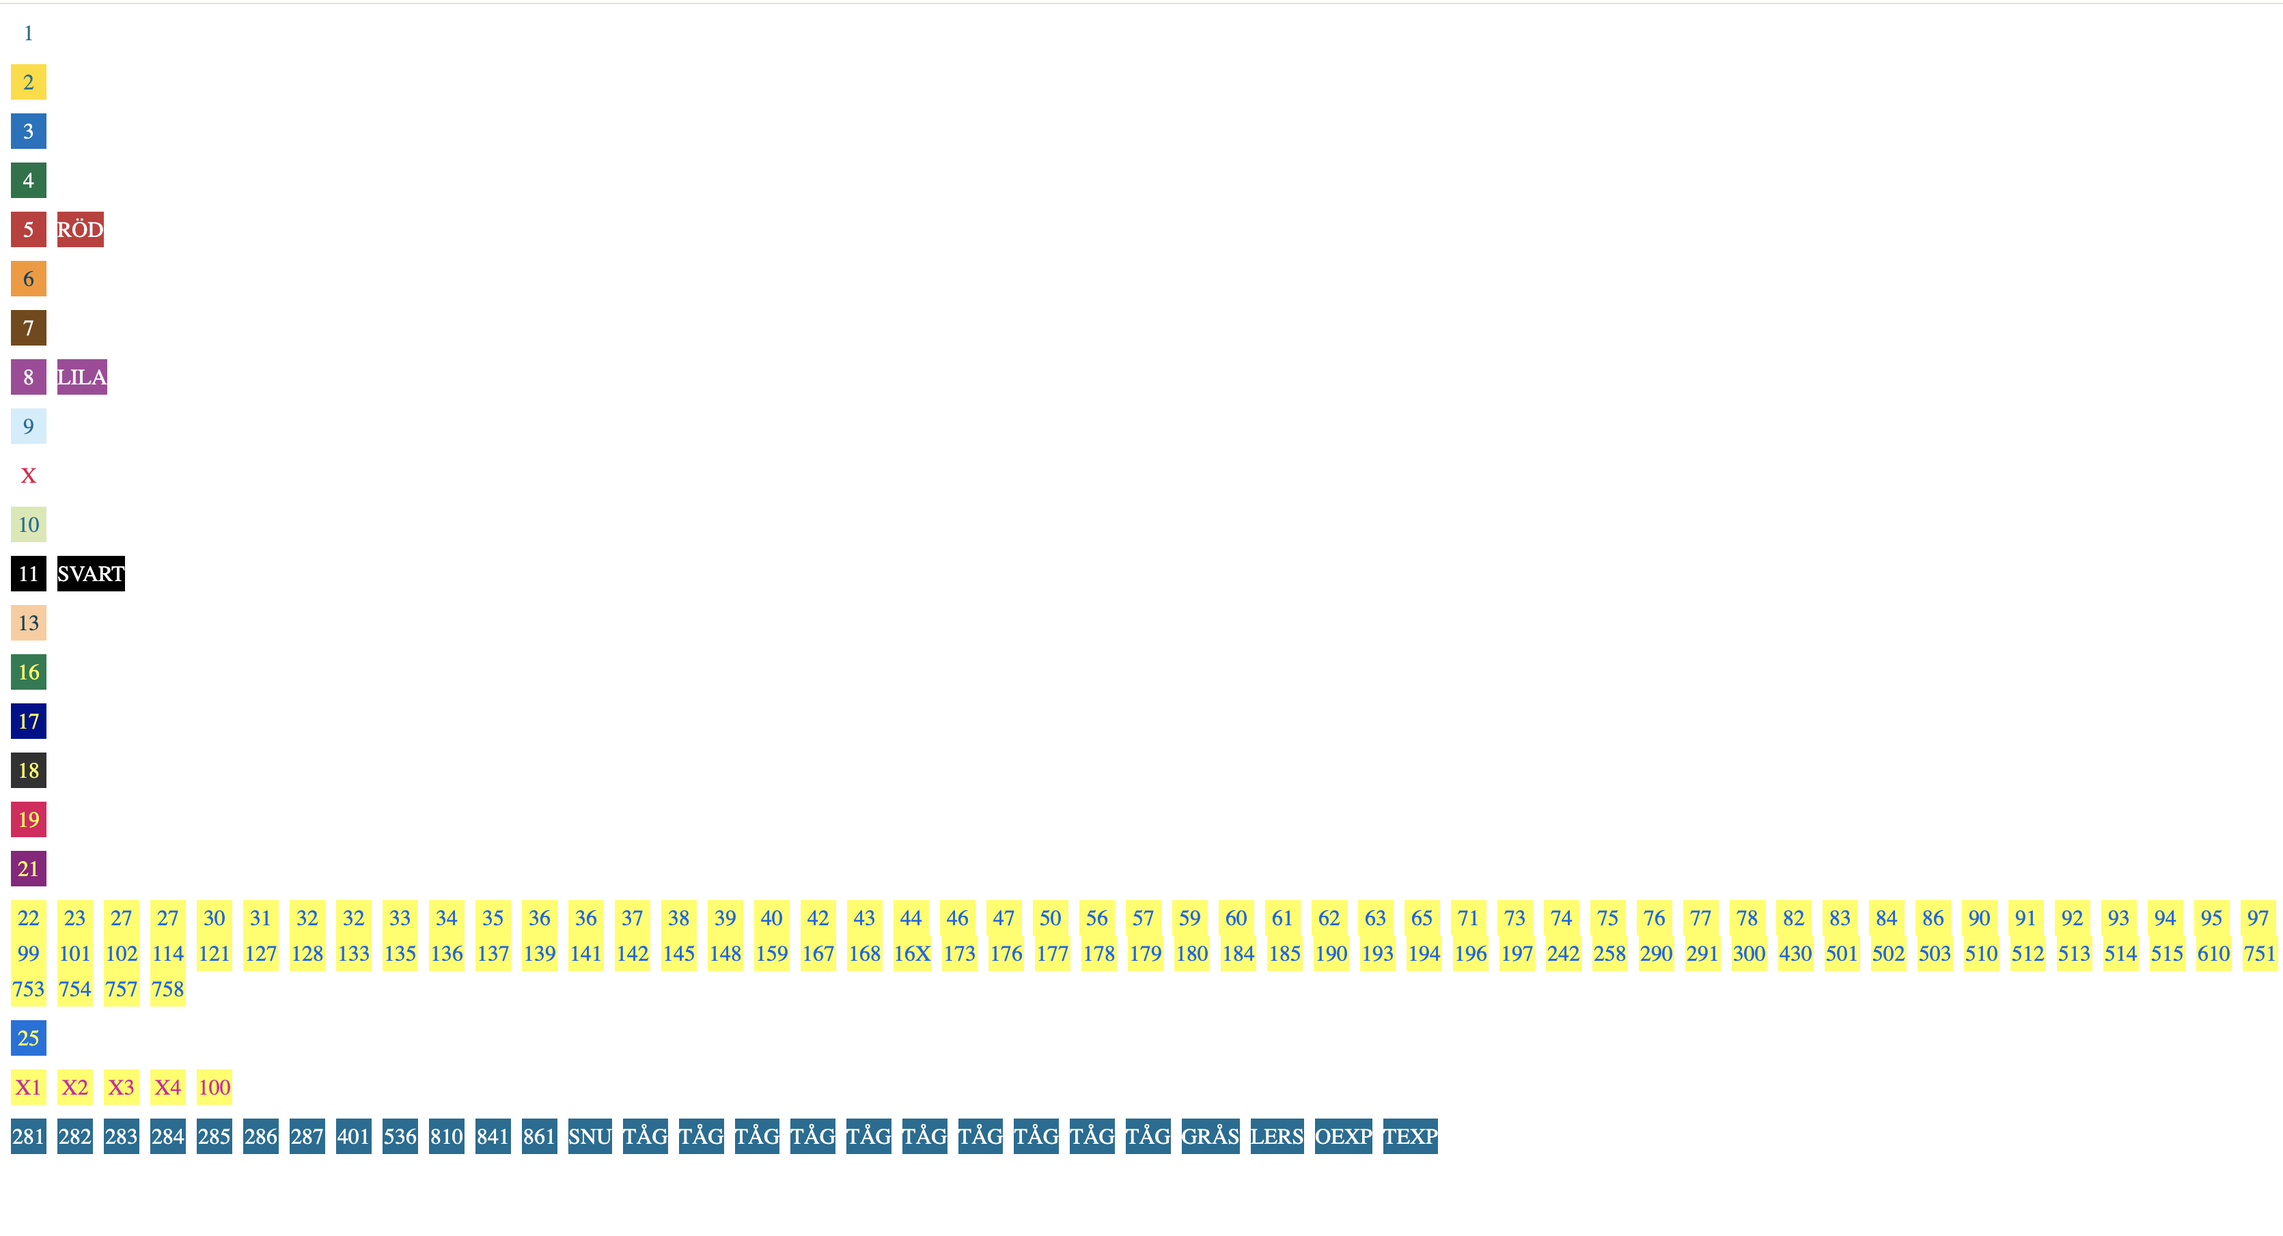
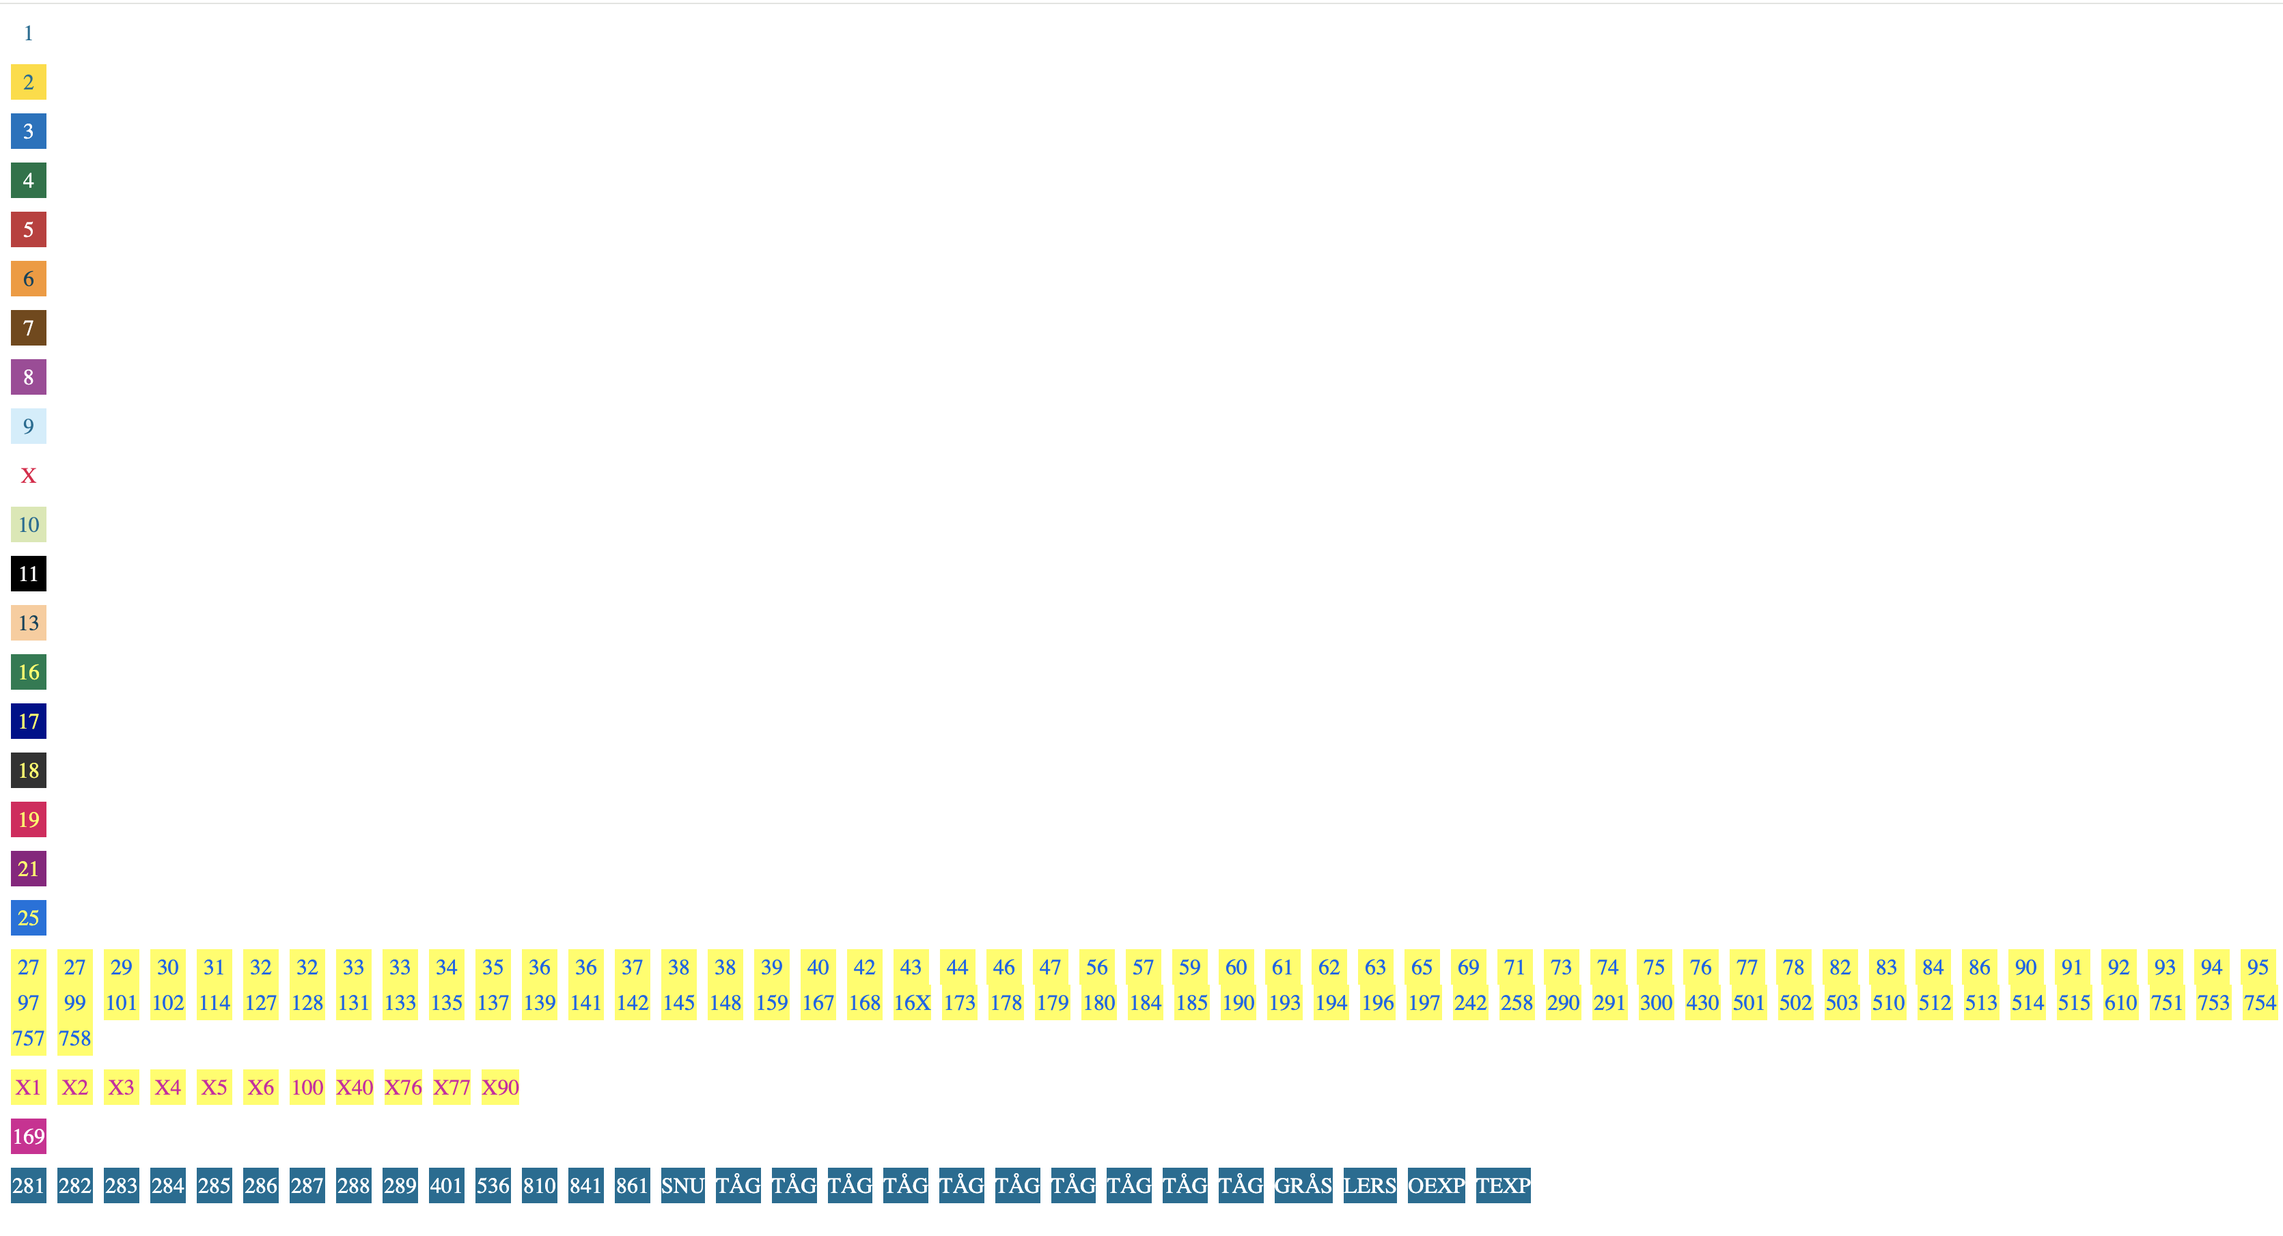
Update styles

diff --git a/dist/lines-goteborg.css b/dist/lines-goteborg.css
@@ -8,17 +8,17 @@
 	color: rgb(0, 108, 147);
 	background-color: rgb(216, 232, 176);
 }
-.line-100, .line-X1, .line-X2, .line-X3, .line-X4 {
+.line-100, .line-X1, .line-X2, .line-X3, .line-X4, .line-X40, .line-X5, .line-X6, .line-X76, .line-X77, .line-X90 {
 	border-color: rgb(212, 0, 162);
 	color: rgb(212, 0, 162);
 	background-color: rgb(255, 255, 80);
 }
-.line-101, .line-102, .line-114, .line-121, .line-127, .line-128, .line-133, .line-135, .line-136, .line-137, .line-139, .line-141, .line-142, .line-145, .line-148, .line-159, .line-167, .line-168, .line-16X, .line-173, .line-176, .line-177, .line-178, .line-179, .line-180, .line-184, .line-185, .line-190, .line-193, .line-194, .line-196, .line-197, .line-22, .line-23, .line-242, .line-258, .line-27, .line-290, .line-291, .line-30, .line-300, .line-31, .line-32, .line-33, .line-34, .line-35, .line-36, .line-37, .line-38, .line-39, .line-40, .line-42, .line-43, .line-430, .line-44, .line-46, .line-47, .line-50, .line-501, .line-502, .line-503, .line-510, .line-512, .line-513, .line-514, .line-515, .line-56, .line-57, .line-59, .line-60, .line-61, .line-610, .line-62, .line-63, .line-65, .line-71, .line-73, .line-74, .line-75, .line-751, .line-753, .line-754, .line-757, .line-758, .line-76, .line-77, .line-78, .line-82, .line-83, .line-84, .line-86, .line-90, .line-91, .line-92, .line-93, .line-94, .line-95, .line-97, .line-99 {
+.line-101, .line-102, .line-114, .line-127, .line-128, .line-131, .line-133, .line-135, .line-137, .line-139, .line-141, .line-142, .line-145, .line-148, .line-159, .line-167, .line-168, .line-16X, .line-173, .line-178, .line-179, .line-180, .line-184, .line-185, .line-190, .line-193, .line-194, .line-196, .line-197, .line-242, .line-258, .line-27, .line-29, .line-290, .line-291, .line-30, .line-300, .line-31, .line-32, .line-33, .line-34, .line-35, .line-36, .line-37, .line-38, .line-39, .line-40, .line-42, .line-43, .line-430, .line-44, .line-46, .line-47, .line-501, .line-502, .line-503, .line-510, .line-512, .line-513, .line-514, .line-515, .line-56, .line-57, .line-59, .line-60, .line-61, .line-610, .line-62, .line-63, .line-65, .line-69, .line-71, .line-73, .line-74, .line-75, .line-751, .line-753, .line-754, .line-757, .line-758, .line-76, .line-77, .line-78, .line-82, .line-83, .line-84, .line-86, .line-90, .line-91, .line-92, .line-93, .line-94, .line-95, .line-97, .line-99 {
 	border-color: rgb(255, 255, 80);
 	color: rgb(0, 97, 235);
 	background-color: rgb(255, 255, 80);
 }
-.line-11, .line-SVART {
+.line-11 {
 	border-color: rgb(0, 0, 0);
 	color: rgb(255, 255, 255);
 	background-color: rgb(0, 0, 0);
@@ -32,6 +32,11 @@
 	border-color: rgb(0, 124, 79);
 	color: rgb(255, 255, 80);
 	background-color: rgb(0, 124, 79);
+}
+.line-169 {
+	border-color: rgb(215, 15, 148);
+	color: rgb(255, 255, 255);
+	background-color: rgb(215, 15, 148);
 }
 .line-17 {
 	border-color: rgb(0, 0, 142);
@@ -63,7 +68,7 @@
 	color: rgb(255, 255, 80);
 	background-color: rgb(0, 111, 222);
 }
-.line-281, .line-282, .line-283, .line-284, .line-285, .line-286, .line-287, .line-401, .line-536, .line-810, .line-841, .line-861, .line-GRÅS, .line-LERS, .line-OEXP, .line-SNU, .line-TEXP, .line-TÅG {
+.line-281, .line-282, .line-283, .line-284, .line-285, .line-286, .line-287, .line-288, .line-289, .line-401, .line-536, .line-810, .line-841, .line-861, .line-GRÅS, .line-LERS, .line-OEXP, .line-SNU, .line-TEXP, .line-TÅG {
 	border-color: rgb(0, 108, 147);
 	color: rgb(255, 255, 255);
 	background-color: rgb(0, 108, 147);
@@ -78,7 +83,7 @@
 	color: rgb(255, 255, 255);
 	background-color: rgb(2, 116, 70);
 }
-.line-5, .line-RÖD {
+.line-5 {
 	border-color: rgb(198, 53, 57);
 	color: rgb(255, 255, 255);
 	background-color: rgb(198, 53, 57);
@@ -93,7 +98,7 @@
 	color: rgb(255, 255, 255);
 	background-color: rgb(118, 71, 18);
 }
-.line-8, .line-LILA {
+.line-8 {
 	border-color: rgb(255, 255, 255);
 	color: rgb(255, 255, 255);
 	background-color: rgb(165, 68, 154);

diff --git a/dist/lines-skovde.css b/dist/lines-skovde.css
@@ -1,50 +1,10 @@
-.line-1 {
-	border-color: rgb(198, 53, 57);
-	color: rgb(255, 255, 255);
-	background-color: rgb(198, 53, 57);
+.line-1, .line-11, .line-14, .line-2, .line-200, .line-212, .line-300, .line-303, .line-4, .line-400, .line-401, .line-402, .line-5, .line-500, .line-501, .line-505, .line-510, .line-6, .line-600, .line-610, .line-613, .line-619, .line-620, .line-8, .line-9 {
+	border-color: rgb(255, 255, 80);
+	color: rgb(0, 97, 235);
+	background-color: rgb(255, 255, 80);
 }
-.line-1, .line-200, .line-212, .line-300, .line-303, .line-310, .line-400, .line-401, .line-402, .line-500, .line-500X, .line-505, .line-510, .line-610, .line-611, .line-613, .line-615, .line-616, .line-618, .line-619, .line-620, .line-8, .line-9, .line-TÅG {
+.line-200, .line-212, .line-300, .line-510, .line-611, .line-615, .line-616, .line-618, .line-620, .line-TÅG {
 	border-color: rgb(0, 108, 147);
 	color: rgb(255, 255, 255);
 	background-color: rgb(0, 108, 147);
-}
-.line-10 {
-	border-color: rgb(194, 205, 197);
-	color: rgb(0, 67, 92);
-	background-color: rgb(194, 205, 197);
-}
-.line-12 {
-	border-color: rgb(118, 71, 18);
-	color: rgb(255, 255, 255);
-	background-color: rgb(118, 71, 18);
-}
-.line-13 {
-	border-color: rgb(248, 152, 40);
-	color: rgb(0, 67, 92);
-	background-color: rgb(248, 152, 40);
-}
-.line-2 {
-	border-color: rgb(0, 0, 0);
-	color: rgb(255, 255, 255);
-	background-color: rgb(0, 0, 0);
-}
-.line-3 {
-	border-color: rgb(2, 116, 70);
-	color: rgb(255, 255, 255);
-	background-color: rgb(2, 116, 70);
-}
-.line-4 {
-	border-color: rgb(0, 113, 193);
-	color: rgb(255, 255, 255);
-	background-color: rgb(0, 113, 193);
-}
-.line-6 {
-	border-color: rgb(216, 232, 176);
-	color: rgb(0, 108, 147);
-	background-color: rgb(216, 232, 176);
-}
-.line-7 {
-	border-color: rgb(253, 204, 153);
-	color: rgb(0, 67, 92);
-	background-color: rgb(253, 204, 153);
 }

diff --git a/dist/lines-uddevalla.css b/dist/lines-uddevalla.css
@@ -3,11 +3,6 @@
 	color: rgb(255, 255, 255);
 	background-color: rgb(198, 53, 57);
 }
-.line-12, .line-14, .line-19, .line-670, .line-673, .line-679, .line-680, .line-681, .line-730, .line-737, .line-738, .line-810, .line-821, .line-822, .line-826, .line-830, .line-833, .line-836, .line-840, .line-841, .line-845, .line-850, .line-860, .line-861, .line-870, .line-871, .line-OEXP, .line-TÅG {
-	border-color: rgb(0, 108, 147);
-	color: rgb(255, 255, 255);
-	background-color: rgb(0, 108, 147);
-}
 .line-2 {
 	border-color: rgb(0, 113, 193);
 	color: rgb(255, 255, 255);
@@ -18,23 +13,23 @@
 	color: rgb(0, 108, 147);
 	background-color: rgb(208, 237, 251);
 }
-.line-331, .line-332, .line-841X, .line-931 {
+.line-331, .line-332, .line-673, .line-737, .line-738, .line-739, .line-821, .line-822, .line-824, .line-826, .line-833, .line-931 {
 	border-color: rgb(255, 255, 80);
 	color: rgb(0, 97, 235);
 	background-color: rgb(255, 255, 80);
 }
 .line-4 {
-	border-color: rgb(2, 116, 70);
+	border-color: rgb(255, 255, 255);
 	color: rgb(255, 255, 255);
-	background-color: rgb(2, 116, 70);
+	background-color: rgb(165, 68, 154);
 }
 .line-5 {
 	border-color: rgb(255, 221, 0);
 	color: rgb(0, 108, 147);
 	background-color: rgb(255, 221, 0);
 }
-.line-6 {
-	border-color: rgb(255, 255, 255);
+.line-670, .line-679, .line-680, .line-681, .line-730, .line-810, .line-830, .line-836, .line-840, .line-841, .line-845, .line-850, .line-860, .line-861, .line-870, .line-871, .line-OEXP, .line-TÅG {
+	border-color: rgb(0, 108, 147);
 	color: rgb(255, 255, 255);
-	background-color: rgb(165, 68, 154);
+	background-color: rgb(0, 108, 147);
 }

diff --git a/dist/lines-kungalv.css b/dist/lines-kungalv.css
@@ -18,12 +18,12 @@
 	color: rgb(255, 255, 255);
 	background-color: rgb(165, 68, 154);
 }
-.line-306, .line-309, .line-326, .line-355, .line-401, .line-810, .line-841, .line-861, .line-901, .line-902, .line-904, .line-905, .line-906, .line-908, .line-909, .line-910, .line-911, .line-912, .line-913, .line-914, .line-915, .line-916, .line-917, .line-918, .line-919, .line-920, .line-921, .line-922, .line-923, .line-924, .line-925, .line-926, .line-927, .line-928, .line-929, .line-930, .line-999, .line-OEXP, .line-SNU, .line-TEXP, .line-TÅG {
+.line-306, .line-309, .line-326, .line-339, .line-355, .line-401, .line-810, .line-841, .line-861, .line-901, .line-902, .line-904, .line-905, .line-906, .line-908, .line-909, .line-910, .line-911, .line-912, .line-913, .line-914, .line-915, .line-916, .line-917, .line-918, .line-919, .line-920, .line-921, .line-922, .line-923, .line-924, .line-925, .line-926, .line-927, .line-928, .line-929, .line-930, .line-999, .line-OEXP, .line-SNU, .line-TEXP, .line-TÅG {
 	border-color: rgb(0, 108, 147);
 	color: rgb(255, 255, 255);
 	background-color: rgb(0, 108, 147);
 }
-.line-X4 {
+.line-X4, .line-X40 {
 	border-color: rgb(212, 0, 162);
 	color: rgb(212, 0, 162);
 	background-color: rgb(255, 255, 80);

diff --git a/dist/lines-lidkoping.css b/dist/lines-lidkoping.css
@@ -1,30 +1,10 @@
-.line-1 {
-	border-color: rgb(198, 53, 57);
-	color: rgb(255, 255, 255);
-	background-color: rgb(198, 53, 57);
+.line-1, .line-100, .line-102, .line-103, .line-105, .line-106, .line-116, .line-130, .line-131, .line-132, .line-133, .line-135, .line-2, .line-200, .line-600, .line-9 {
+	border-color: rgb(255, 255, 80);
+	color: rgb(0, 97, 235);
+	background-color: rgb(255, 255, 80);
 }
-.line-1, .line-100, .line-102, .line-103, .line-105, .line-106, .line-116, .line-130, .line-131, .line-132, .line-133, .line-135, .line-138, .line-139, .line-200, .line-711, .line-TÅG {
+.line-116, .line-131, .line-138, .line-139, .line-711, .line-TÅG {
 	border-color: rgb(0, 108, 147);
 	color: rgb(255, 255, 255);
 	background-color: rgb(0, 108, 147);
-}
-.line-2 {
-	border-color: rgb(0, 113, 193);
-	color: rgb(255, 255, 255);
-	background-color: rgb(0, 113, 193);
-}
-.line-3 {
-	border-color: rgb(255, 255, 255);
-	color: rgb(255, 255, 255);
-	background-color: rgb(165, 68, 154);
-}
-.line-4 {
-	border-color: rgb(255, 221, 0);
-	color: rgb(0, 108, 147);
-	background-color: rgb(255, 221, 0);
-}
-.line-9 {
-	border-color: rgb(2, 116, 70);
-	color: rgb(255, 255, 255);
-	background-color: rgb(2, 116, 70);
 }

diff --git a/dist/lines-trollhattan.css b/dist/lines-trollhattan.css
@@ -1,9 +1,4 @@
-.line-1, .line-632, .line-640, .line-642, .line-662, .line-670, .line-673, .line-679, .line-680, .line-710, .line-712, .line-714, .line-860, .line-TÅG {
-	border-color: rgb(0, 108, 147);
-	color: rgb(255, 255, 255);
-	background-color: rgb(0, 108, 147);
-}
-.line-21, .line-22, .line-23, .line-24, .line-25, .line-26, .line-27, .line-41, .line-42, .line-421, .line-423, .line-60, .line-61, .line-63, .line-630, .line-632, .line-634, .line-640, .line-65, .line-660, .line-661, .line-662 {
+.line-21, .line-22, .line-23, .line-24, .line-25, .line-26, .line-27, .line-41, .line-42, .line-421, .line-423, .line-60, .line-600, .line-61, .line-63, .line-630, .line-632, .line-634, .line-640, .line-642, .line-65, .line-660, .line-661, .line-662, .line-673 {
 	border-color: rgb(255, 255, 80);
 	color: rgb(0, 97, 235);
 	background-color: rgb(255, 255, 80);
@@ -22,4 +17,9 @@
 	border-color: rgb(0, 108, 147);
 	color: rgb(0, 108, 147);
 	background-color: rgb(255, 255, 255);
+}
+.line-632, .line-640, .line-662, .line-670, .line-679, .line-680, .line-710, .line-712, .line-714, .line-860, .line-TÅG {
+	border-color: rgb(0, 108, 147);
+	color: rgb(255, 255, 255);
+	background-color: rgb(0, 108, 147);
 }

diff --git a/dist/lines-alingsas.css b/dist/lines-alingsas.css
@@ -3,6 +3,11 @@
 	color: rgb(255, 255, 255);
 	background-color: rgb(198, 53, 57);
 }
+.line-11, .line-540, .line-541, .line-543, .line-546, .line-549, .line-550, .line-554, .line-560, .line-561, .line-563, .line-566, .line-585, .line-588, .line-642 {
+	border-color: rgb(255, 255, 80);
+	color: rgb(0, 97, 235);
+	background-color: rgb(255, 255, 80);
+}
 .line-2 {
 	border-color: rgb(0, 113, 193);
 	color: rgb(255, 255, 255);
@@ -13,13 +18,8 @@
 	color: rgb(255, 255, 255);
 	background-color: rgb(118, 71, 18);
 }
-.line-525, .line-541, .line-542, .line-543, .line-544, .line-546, .line-547, .line-548, .line-551, .line-552, .line-554, .line-560, .line-561, .line-563, .line-564, .line-565, .line-566, .line-567, .line-579, .line-642, .line-TÅG {
+.line-525, .line-543, .line-546, .line-552, .line-566, .line-942, .line-944, .line-947, .line-948, .line-951, .line-953, .line-961, .line-964, .line-965, .line-TÅG {
 	border-color: rgb(0, 108, 147);
 	color: rgb(255, 255, 255);
 	background-color: rgb(0, 108, 147);
-}
-.line-540, .line-543, .line-549, .line-550, .line-585, .line-588 {
-	border-color: rgb(255, 255, 80);
-	color: rgb(0, 97, 235);
-	background-color: rgb(255, 255, 80);
 }

diff --git a/dist/lines-falkoping.css b/dist/lines-falkoping.css
@@ -1,25 +1,10 @@
-.line-1 {
-	border-color: rgb(198, 53, 57);
-	color: rgb(255, 255, 255);
-	background-color: rgb(198, 53, 57);
-}
-.line-2 {
-	border-color: rgb(0, 113, 193);
-	color: rgb(255, 255, 255);
-	background-color: rgb(0, 113, 193);
-}
-.line-203, .line-300, .line-302, .line-303, .line-310, .line-312, .line-313, .line-314, .line-315, .line-317, .line-318, .line-327, .line-4, .line-5, .line-TÅG {
-	border-color: rgb(0, 108, 147);
-	color: rgb(255, 255, 255);
-	background-color: rgb(0, 108, 147);
-}
-.line-209 {
+.line-1, .line-2, .line-203, .line-209, .line-3, .line-300, .line-302, .line-303, .line-312, .line-313, .line-314, .line-317, .line-318 {
 	border-color: rgb(255, 255, 80);
 	color: rgb(0, 97, 235);
 	background-color: rgb(255, 255, 80);
 }
-.line-3 {
-	border-color: rgb(2, 116, 70);
+.line-300, .line-310, .line-312, .line-313, .line-314, .line-315, .line-318, .line-327, .line-4, .line-5, .line-TÅG {
+	border-color: rgb(0, 108, 147);
 	color: rgb(255, 255, 255);
-	background-color: rgb(2, 116, 70);
+	background-color: rgb(0, 108, 147);
 }

diff --git a/dist/lines-vanersborg.css b/dist/lines-vanersborg.css
@@ -1,10 +1,10 @@
-.line-133, .line-640, .line-641, .line-670, .line-673, .line-679, .line-680, .line-681, .line-69, .line-700, .line-710, .line-711, .line-712, .line-714, .line-718, .line-860, .line-TÅG {
-	border-color: rgb(0, 108, 147);
-	color: rgb(255, 255, 255);
-	background-color: rgb(0, 108, 147);
-}
-.line-60, .line-61, .line-62, .line-63, .line-634, .line-64, .line-640, .line-65, .line-66, .line-660, .line-67, .line-68 {
+.line-133, .line-60, .line-61, .line-62, .line-63, .line-634, .line-64, .line-640, .line-65, .line-66, .line-660, .line-67, .line-673, .line-68 {
 	border-color: rgb(255, 255, 80);
 	color: rgb(0, 97, 235);
 	background-color: rgb(255, 255, 80);
+}
+.line-640, .line-641, .line-670, .line-679, .line-680, .line-681, .line-69, .line-700, .line-710, .line-711, .line-712, .line-714, .line-718, .line-860, .line-TÅG {
+	border-color: rgb(0, 108, 147);
+	color: rgb(255, 255, 255);
+	background-color: rgb(0, 108, 147);
 }

diff --git a/dist/lines-mariestad.css b/dist/lines-mariestad.css
@@ -1,14 +1,9 @@
-.line-1 {
-	border-color: rgb(198, 53, 57);
-	color: rgb(255, 255, 255);
-	background-color: rgb(198, 53, 57);
+.line-1, .line-2, .line-500, .line-501, .line-502, .line-504, .line-506, .line-510, .line-511, .line-512, .line-514 {
+	border-color: rgb(255, 255, 80);
+	color: rgb(0, 97, 235);
+	background-color: rgb(255, 255, 80);
 }
-.line-2 {
-	border-color: rgb(0, 113, 193);
-	color: rgb(255, 255, 255);
-	background-color: rgb(0, 113, 193);
-}
-.line-500, .line-500X, .line-502, .line-504, .line-506, .line-510, .line-511, .line-512, .line-513, .line-514, .line-515, .line-616, .line-712, .line-TAXI, .line-TÅG {
+.line-502, .line-506, .line-510, .line-512, .line-513, .line-514, .line-515, .line-616, .line-712, .line-TAXI, .line-TÅG {
 	border-color: rgb(0, 108, 147);
 	color: rgb(255, 255, 255);
 	background-color: rgb(0, 108, 147);

diff --git a/dist/lines-lerum.css b/dist/lines-lerum.css
@@ -1,7 +1,12 @@
-.line-525, .line-526, .line-527, .line-529, .line-530, .line-531, .line-532, .line-533, .line-534, .line-535, .line-536, .line-537, .line-538, .line-539, .line-561, .line-563, .line-564, .line-565, .line-GRÅS, .line-LERS, .line-TÅG {
+.line-525, .line-526, .line-527, .line-529, .line-530, .line-531, .line-532, .line-533, .line-534, .line-535, .line-536, .line-537, .line-538, .line-539, .line-964, .line-965, .line-GRÅS, .line-LERS, .line-TÅG {
 	border-color: rgb(0, 108, 147);
 	color: rgb(255, 255, 255);
 	background-color: rgb(0, 108, 147);
+}
+.line-561, .line-563 {
+	border-color: rgb(255, 255, 80);
+	color: rgb(0, 97, 235);
+	background-color: rgb(255, 255, 80);
 }
 .line-X3 {
 	border-color: rgb(212, 0, 162);

diff --git a/dist/lines-skara.css b/dist/lines-skara.css
@@ -1,15 +1,10 @@
-.line-1 {
-	border-color: rgb(198, 53, 57);
-	color: rgb(255, 255, 255);
-	background-color: rgb(198, 53, 57);
+.line-103, .line-158, .line-200, .line-202, .line-203, .line-211, .line-212, .line-313, .line-600 {
+	border-color: rgb(255, 255, 80);
+	color: rgb(0, 97, 235);
+	background-color: rgb(255, 255, 80);
 }
-.line-1, .line-103, .line-158, .line-200, .line-202, .line-203, .line-211, .line-212, .line-313 {
+.line-158, .line-200, .line-211, .line-212, .line-313 {
 	border-color: rgb(0, 108, 147);
 	color: rgb(255, 255, 255);
 	background-color: rgb(0, 108, 147);
-}
-.line-2 {
-	border-color: rgb(0, 113, 193);
-	color: rgb(255, 255, 255);
-	background-color: rgb(0, 113, 193);
 }
